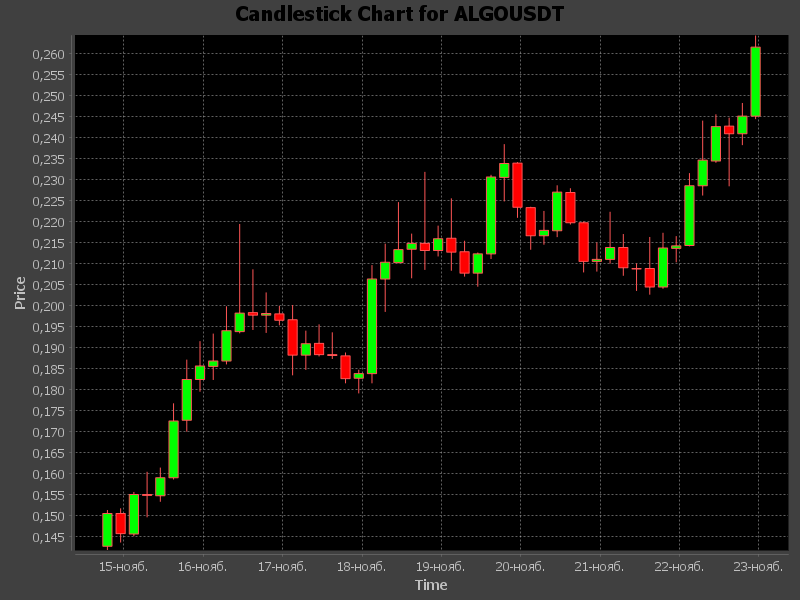
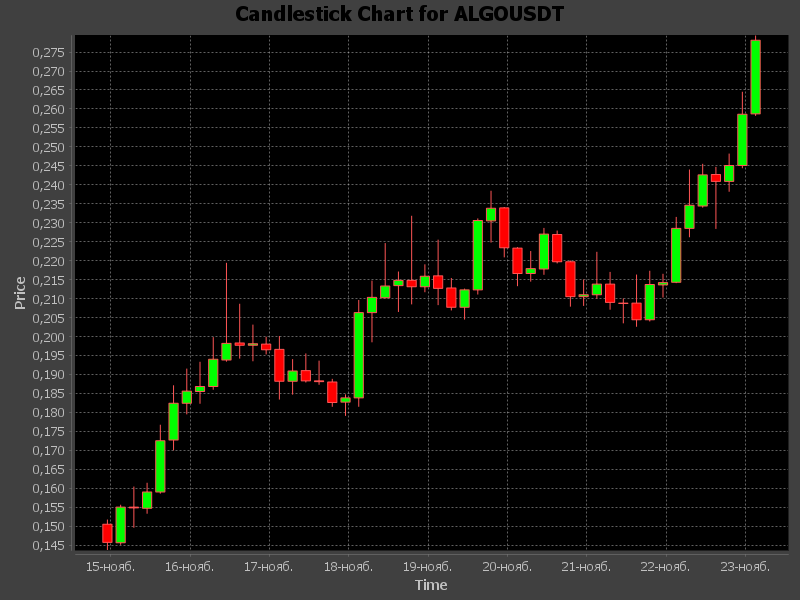
добавил график одного часа

diff --git a/src/main/java/org/example/pump_screener/socket/WebSocketClient.java b/src/main/java/org/example/pump_screener/socket/WebSocketClient.java
@@ -70,7 +70,7 @@ public class WebSocketClient {
                     "QUICKUSDT", "RPLUSDT", "AERGOUSDT", "POLUSDT", "1MBABYDOGEUSDT", "NEIROUSDT", "KDAUSDT", "FIDAUSDT", "FIOUSDT", "GHSTUSDT",
                     "LOKAUSDT", "HMSTRUSDT", "REIUSDT", "COSUSDT", "EIGENUSDT", "DIAUSDT", "SCRUSDT","SANTOSUSDT");
             for (String symbol : symbolsToTrack) {
-                String endpoint = BINANCE_CANDLESTICK_URL + symbol.toLowerCase() + "@kline_4h";
+                String endpoint = BINANCE_CANDLESTICK_URL + symbol.toLowerCase() + "@kline_1h";
                 container.connectToServer(this, URI.create(endpoint));
             }
         } catch (Exception e) {

diff --git a/src/main/java/org/example/pump_screener/service/BinanceService.java b/src/main/java/org/example/pump_screener/service/BinanceService.java
@@ -53,7 +53,7 @@ public class BinanceService {
     public List<Candlestick> getLatestCandlesticks(String symbol) {
         HashMap<String, Object> parameters = new HashMap<>();
         parameters.put("symbol", symbol);
-        parameters.put("interval", "4h"); // Используйте 1 минута
+        parameters.put("interval", "1h"); // Используйте 1 минута
         parameters.put("limit", 50); // Получить последние 50 свечей
 
         String response = spotClient.createMarket().klines(parameters);
